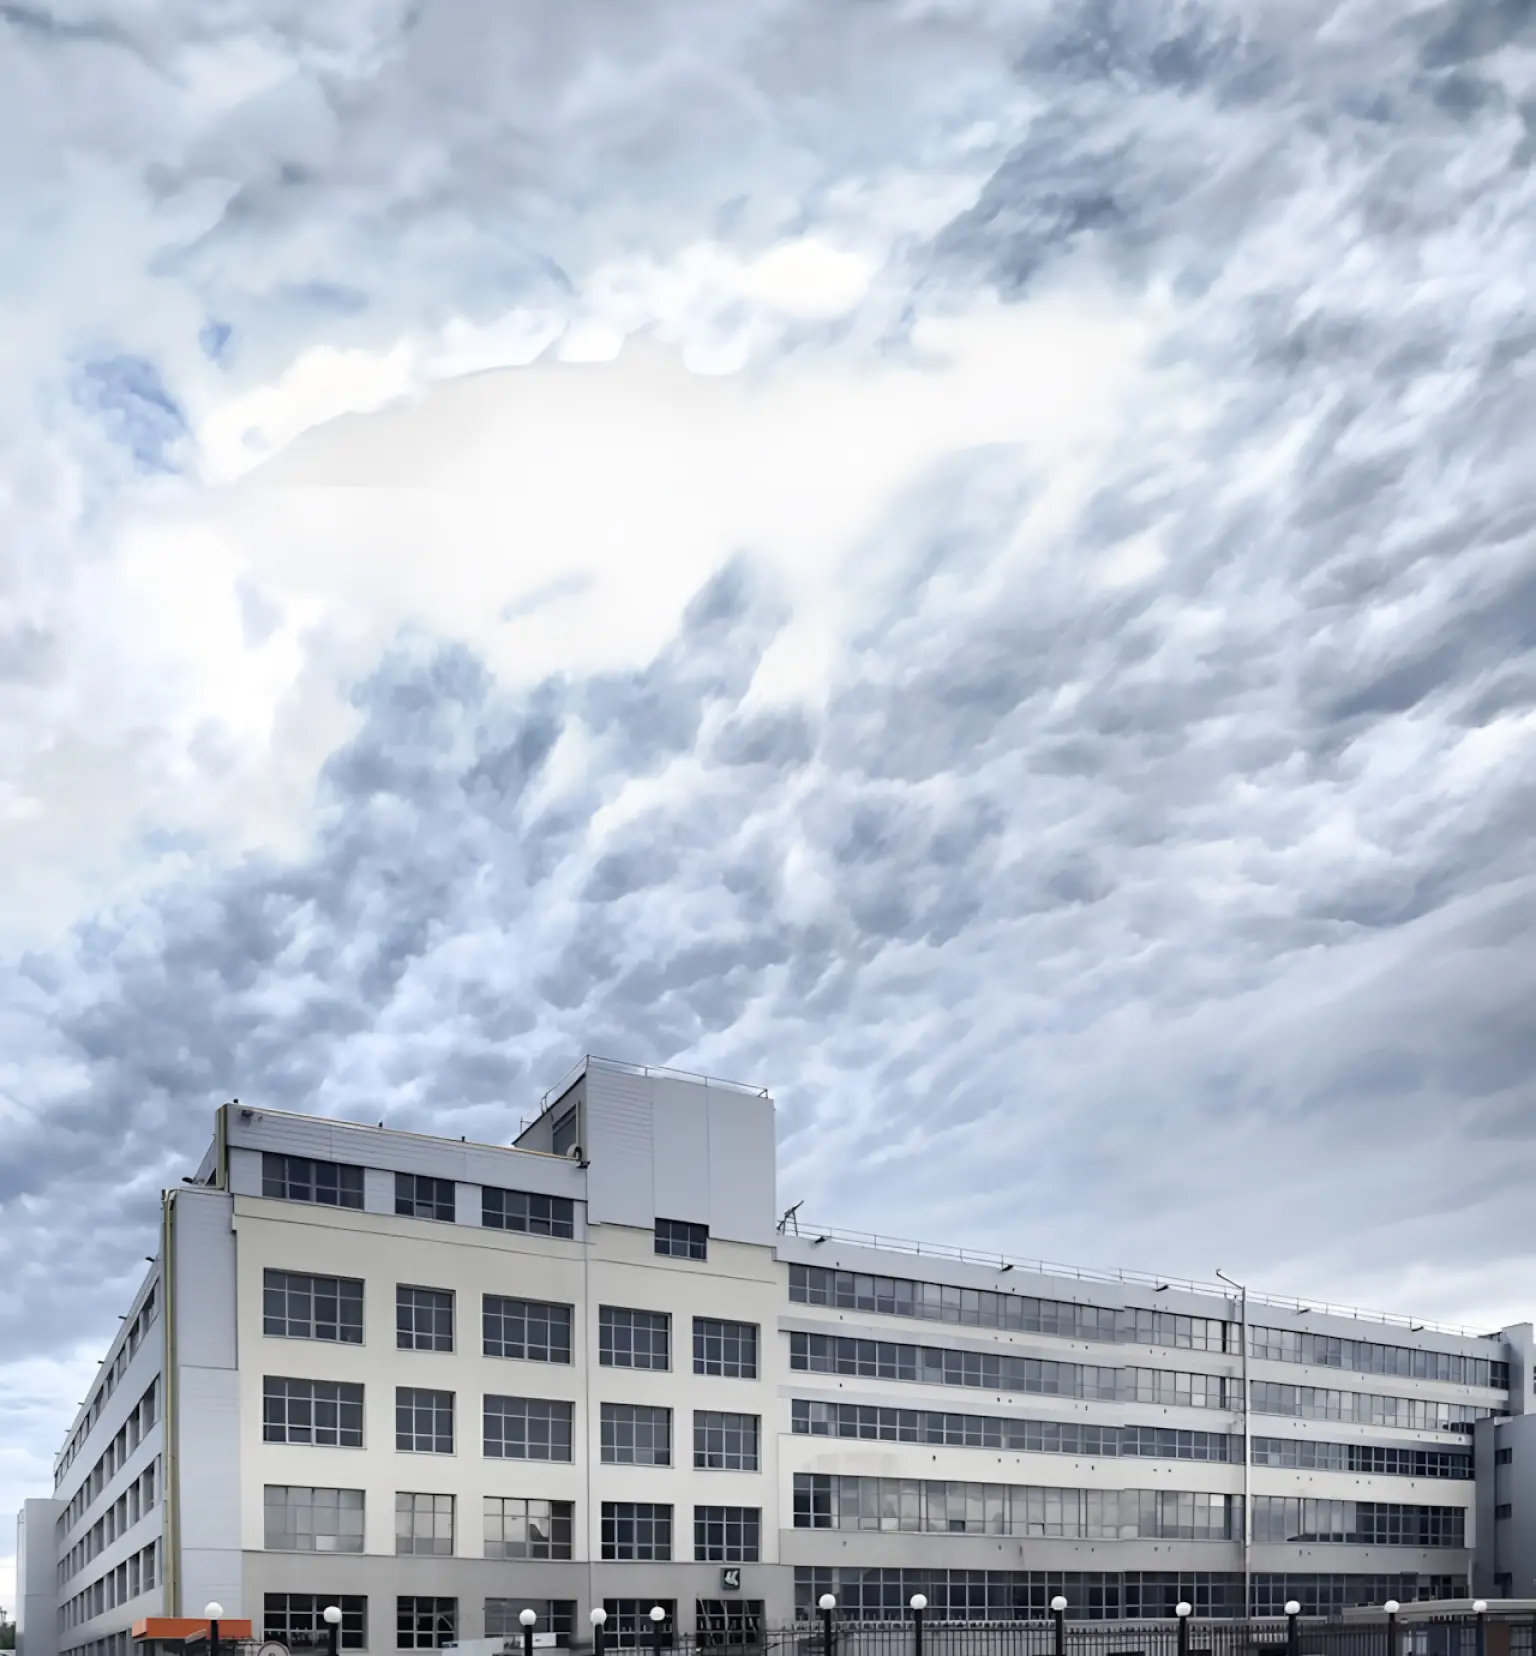
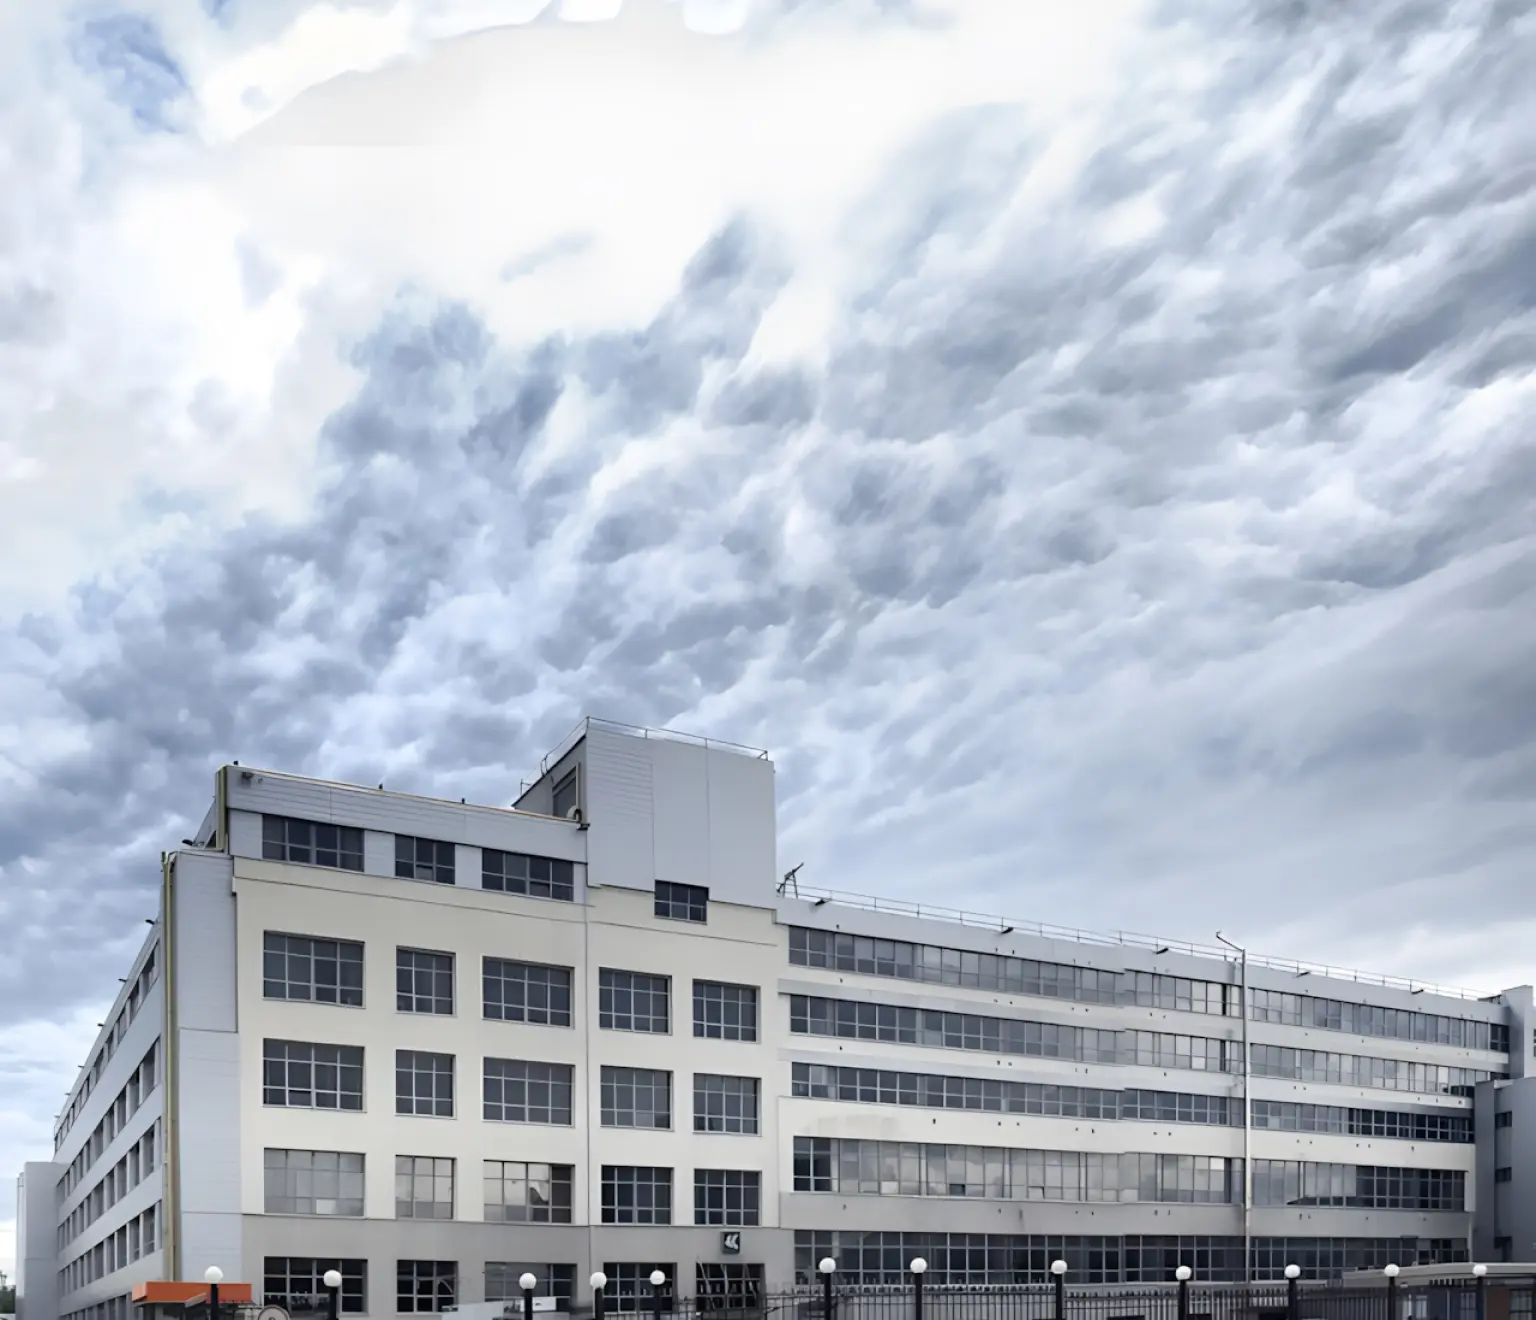
updated styles for hero wide mobile and tablet (#62)

diff --git a/src/components/home/hero/heroInfo/HeroInfoItem.tsx b/src/components/home/hero/heroInfo/HeroInfoItem.tsx
@@ -8,10 +8,10 @@ export default function HeroInfoItem({ heroInfoItem }: HeroInfoItemProps) {
   const { quantity, description } = heroInfoItem;
   return (
     <li
-      className="absolute first:left-[5.55%] tablet:first:left-[20.8%] first:top-[43.5%] tablet:first:top-[25%] [&:nth-child(2)]:left-[25%] 
-    tablet:[&:nth-child(2)]:left-[35.9%] [&:nth-child(2)]:top-[30.3%] tablet:[&:nth-child(2)]:top-[25%] [&:nth-child(3)]:right-[25%] 
-    tablet:[&:nth-child(3)]:right-[35.9%] [&:nth-child(3)]:top-[30.3%] tablet:[&:nth-child(3)]:top-[25%] last:top-[43.5%] tablet:last:top-[25%] 
-    last:right-[5.55%] tablet:last:right-[20.8%] flex flex-col items-center justify-center w-[24.44%] h-[20%] tablet:w-[13%] tablet:h-[14%]"
+      className="absolute first:left-[5.55%] tablet:first:left-[20.8%] first:top-[43.5%] mobileXl:first:top-[33%] tablet:first:top-[31.4%] [&:nth-child(2)]:left-[25%] 
+    tablet:[&:nth-child(2)]:left-[35.9%] [&:nth-child(2)]:top-[30.3%] mobileXl:[&:nth-child(2)]:top-[33%] tablet:[&:nth-child(2)]:top-[31.4%] [&:nth-child(3)]:right-[25%] 
+    tablet:[&:nth-child(3)]:right-[35.9%] [&:nth-child(3)]:top-[30.3%] mobileXl:[&:nth-child(3)]:top-[33%] tablet:[&:nth-child(3)]:top-[31.4%] last:top-[43.5%] mobileXl:last:top-[33%] tablet:last:top-[31.4%] 
+    last:right-[5.55%] tablet:last:right-[20.8%] flex flex-col items-center justify-center w-[24.44%] h-[20%] mobileXl:w-[30.5%] mobileXl:h-[24.96%] tablet:w-[13%] tablet:h-[17.6%]"
     >
       <Image
         src={`/images/icons/hexagon.svg`}
@@ -20,8 +20,8 @@ export default function HeroInfoItem({ heroInfoItem }: HeroInfoItemProps) {
         alt="hexagone image"
         className="absolute top-0 left-0 w-full h-full"
       />
-      <span className="mb-2 text-xsb">{quantity}</span>
-      <span className="text-xs">{description}</span>
+      <span className="mb-2 text-xsb mobileXl:text-baseb">{quantity}</span>
+      <span className="text-xs mobileXl:text-base">{description}</span>
     </li>
   );
 }

diff --git a/src/components/home/hero/Hero.tsx b/src/components/home/hero/Hero.tsx
@@ -7,9 +7,9 @@ export default function Hero() {
   return (
     <section
       id="about-us"
-      className="relative w-full aspect-[360/508] mobileXl:aspect-[768/828] scroll-mt-[72px] mb-10 bg-primary"
+      className="relative w-full aspect-[360/508] mobileXl:aspect-[768/660] scroll-mt-[72px] mb-10 bg-primary"
     >
-      <div className="absolute z-10 w-full h-full py-[11.11%] mobileXl:py-[9.7%] px-5 text-white-text text-center">
+      <div className="absolute z-10 w-full h-full py-[11.11%] mobileXl:py-[8%] tablet:py-[12.1%] px-5 text-white-text text-center">
         <HeroTitle />
         <HeroInfoList />
       </div>

diff --git a/tailwind.config.ts b/tailwind.config.ts
@@ -12,7 +12,7 @@ const config: Config = {
   theme: {
     extend: {
       screens: {
-        mobileXl: "460px",
+        mobileXl: "520px",
         tablet: "768px",
         laptop: "1280px",
       },
@@ -115,6 +115,13 @@ const config: Config = {
           "44px",
           {
             lineHeight: "48px",
+            fontWeight: "700",
+          },
+        ],
+        "4xlb": [
+          "48px",
+          {
+            lineHeight: "52px",
             fontWeight: "700",
           },
         ],

diff --git a/src/components/home/hero/heroSlider/HeroSliderList.tsx b/src/components/home/hero/heroSlider/HeroSliderList.tsx
@@ -12,7 +12,7 @@ export default function HeroSliderList({
 }: HeroSliderListProps) {
   return (
     <ul
-      className={`absolute top-0 left-0 w-full h-full aspect-[360/508] mobileXl:aspect-[768/828] ${className}`}
+      className={`absolute top-0 left-0 w-full h-full aspect-[360/508] mobileXl:aspect-[768/660] ${className}`}
     >
       {imagesList.map(({ image }, idx) => (
         <li

diff --git a/src/components/home/hero/HeroTitle.tsx b/src/components/home/hero/HeroTitle.tsx
@@ -7,7 +7,9 @@ export default function HeroTitle() {
     <>
       <h1 className="text-base">
         {t("pageTitle1")}
-        <p className="text-3xlb">{t("pageTitle2").toUpperCase()}</p>
+        <p className="text-3xlb mobileXl:text-4xlb">
+          {t("pageTitle2").toUpperCase()}
+        </p>
       </h1>
       <p>{t("description").toUpperCase()}</p>
     </>

diff --git a/src/components/home/hero/heroInfo/HeroInfoList.tsx b/src/components/home/hero/heroInfo/HeroInfoList.tsx
@@ -15,7 +15,7 @@ export default function HeroInfoList() {
   ];
 
   return (
-    <ul className="mt-7">
+    <ul>
       {heroList.map((item, idx) => (
         <HeroInfoItem key={idx} heroInfoItem={item}></HeroInfoItem>
       ))}
